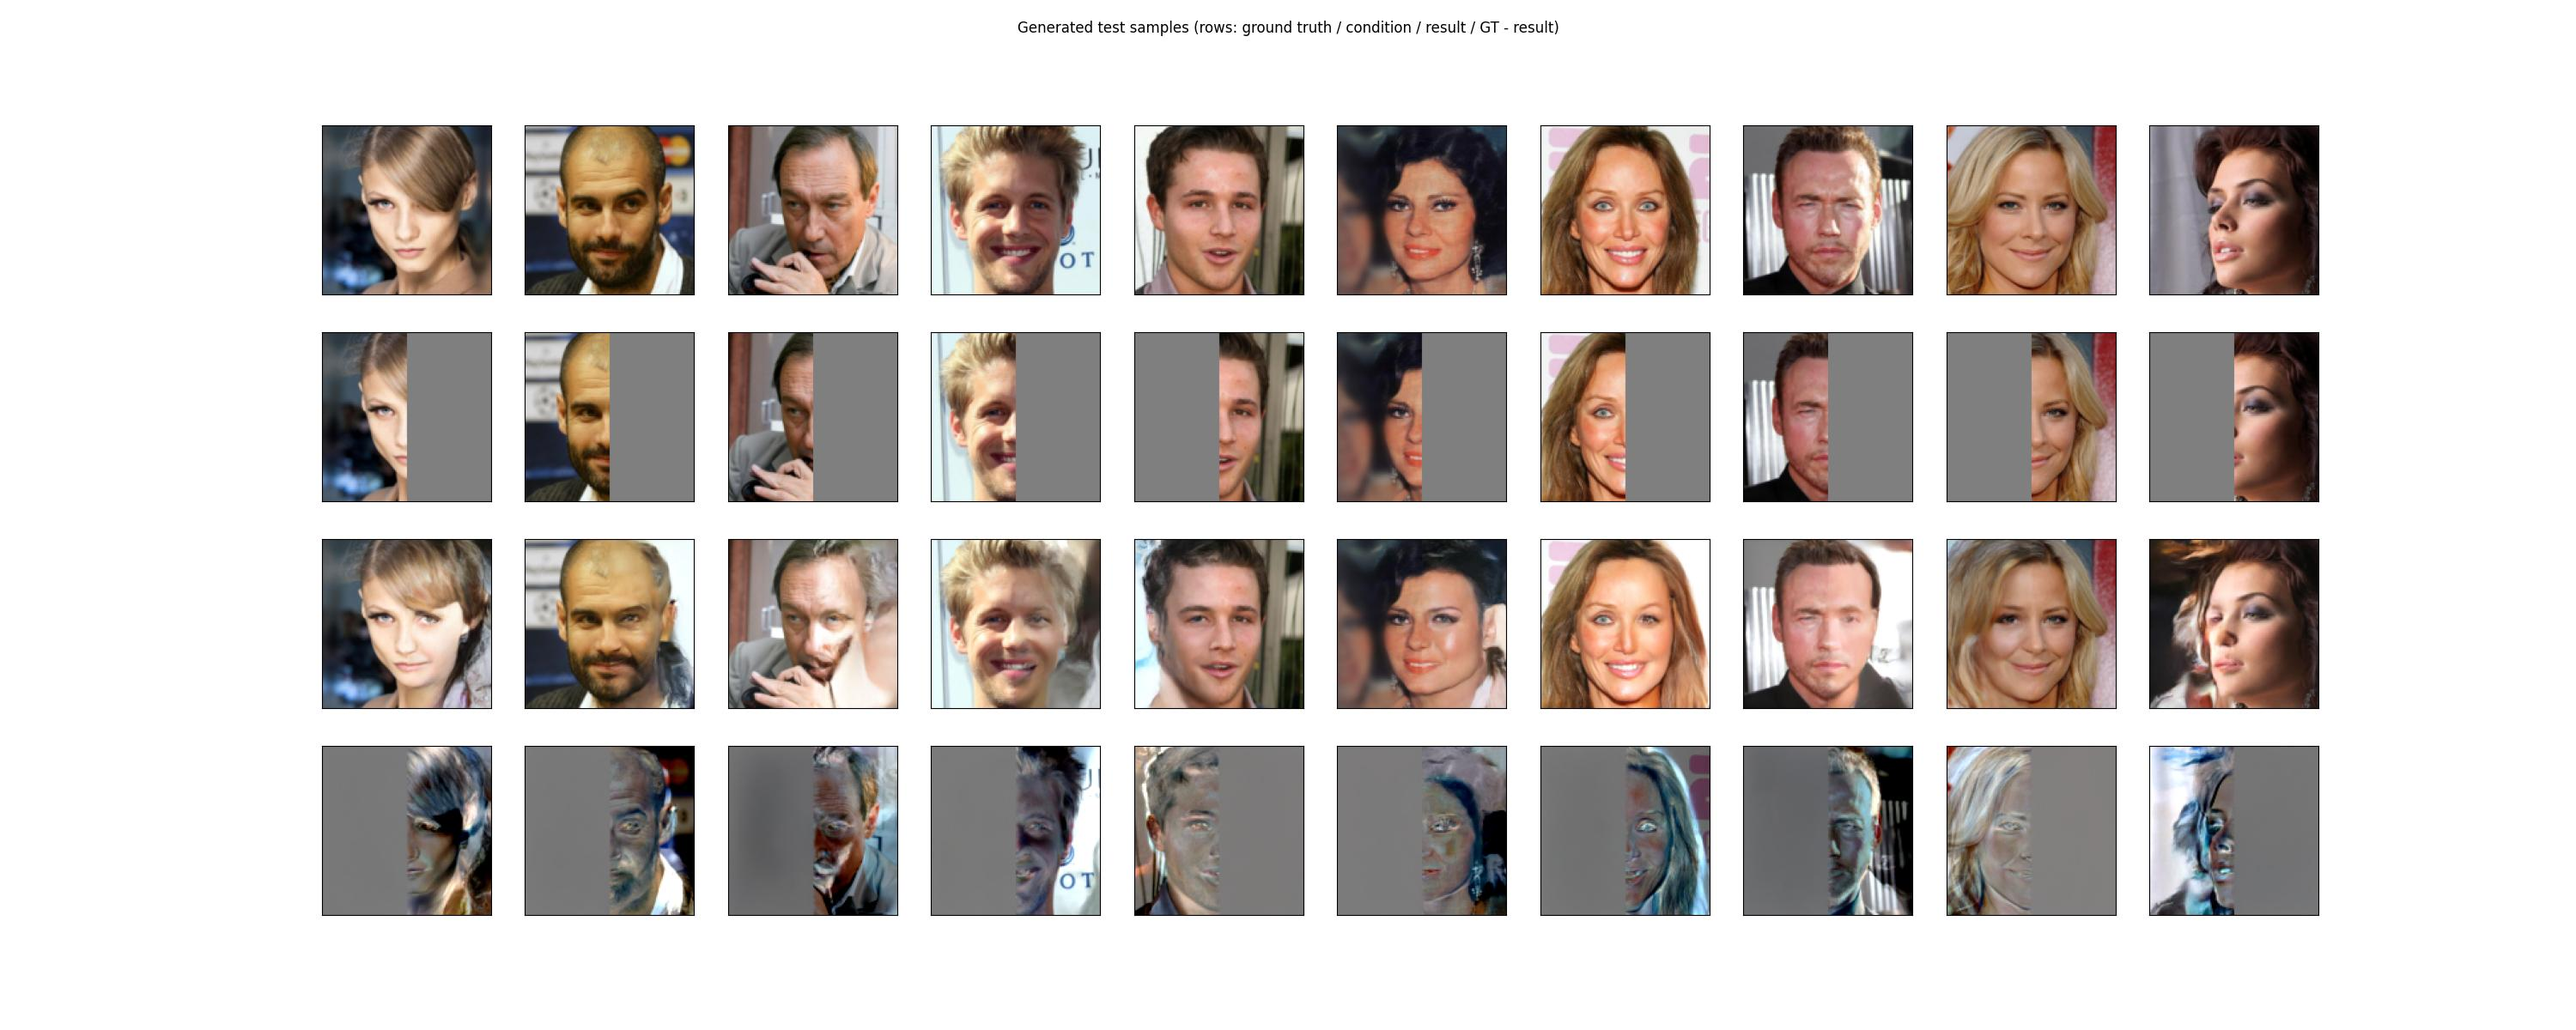
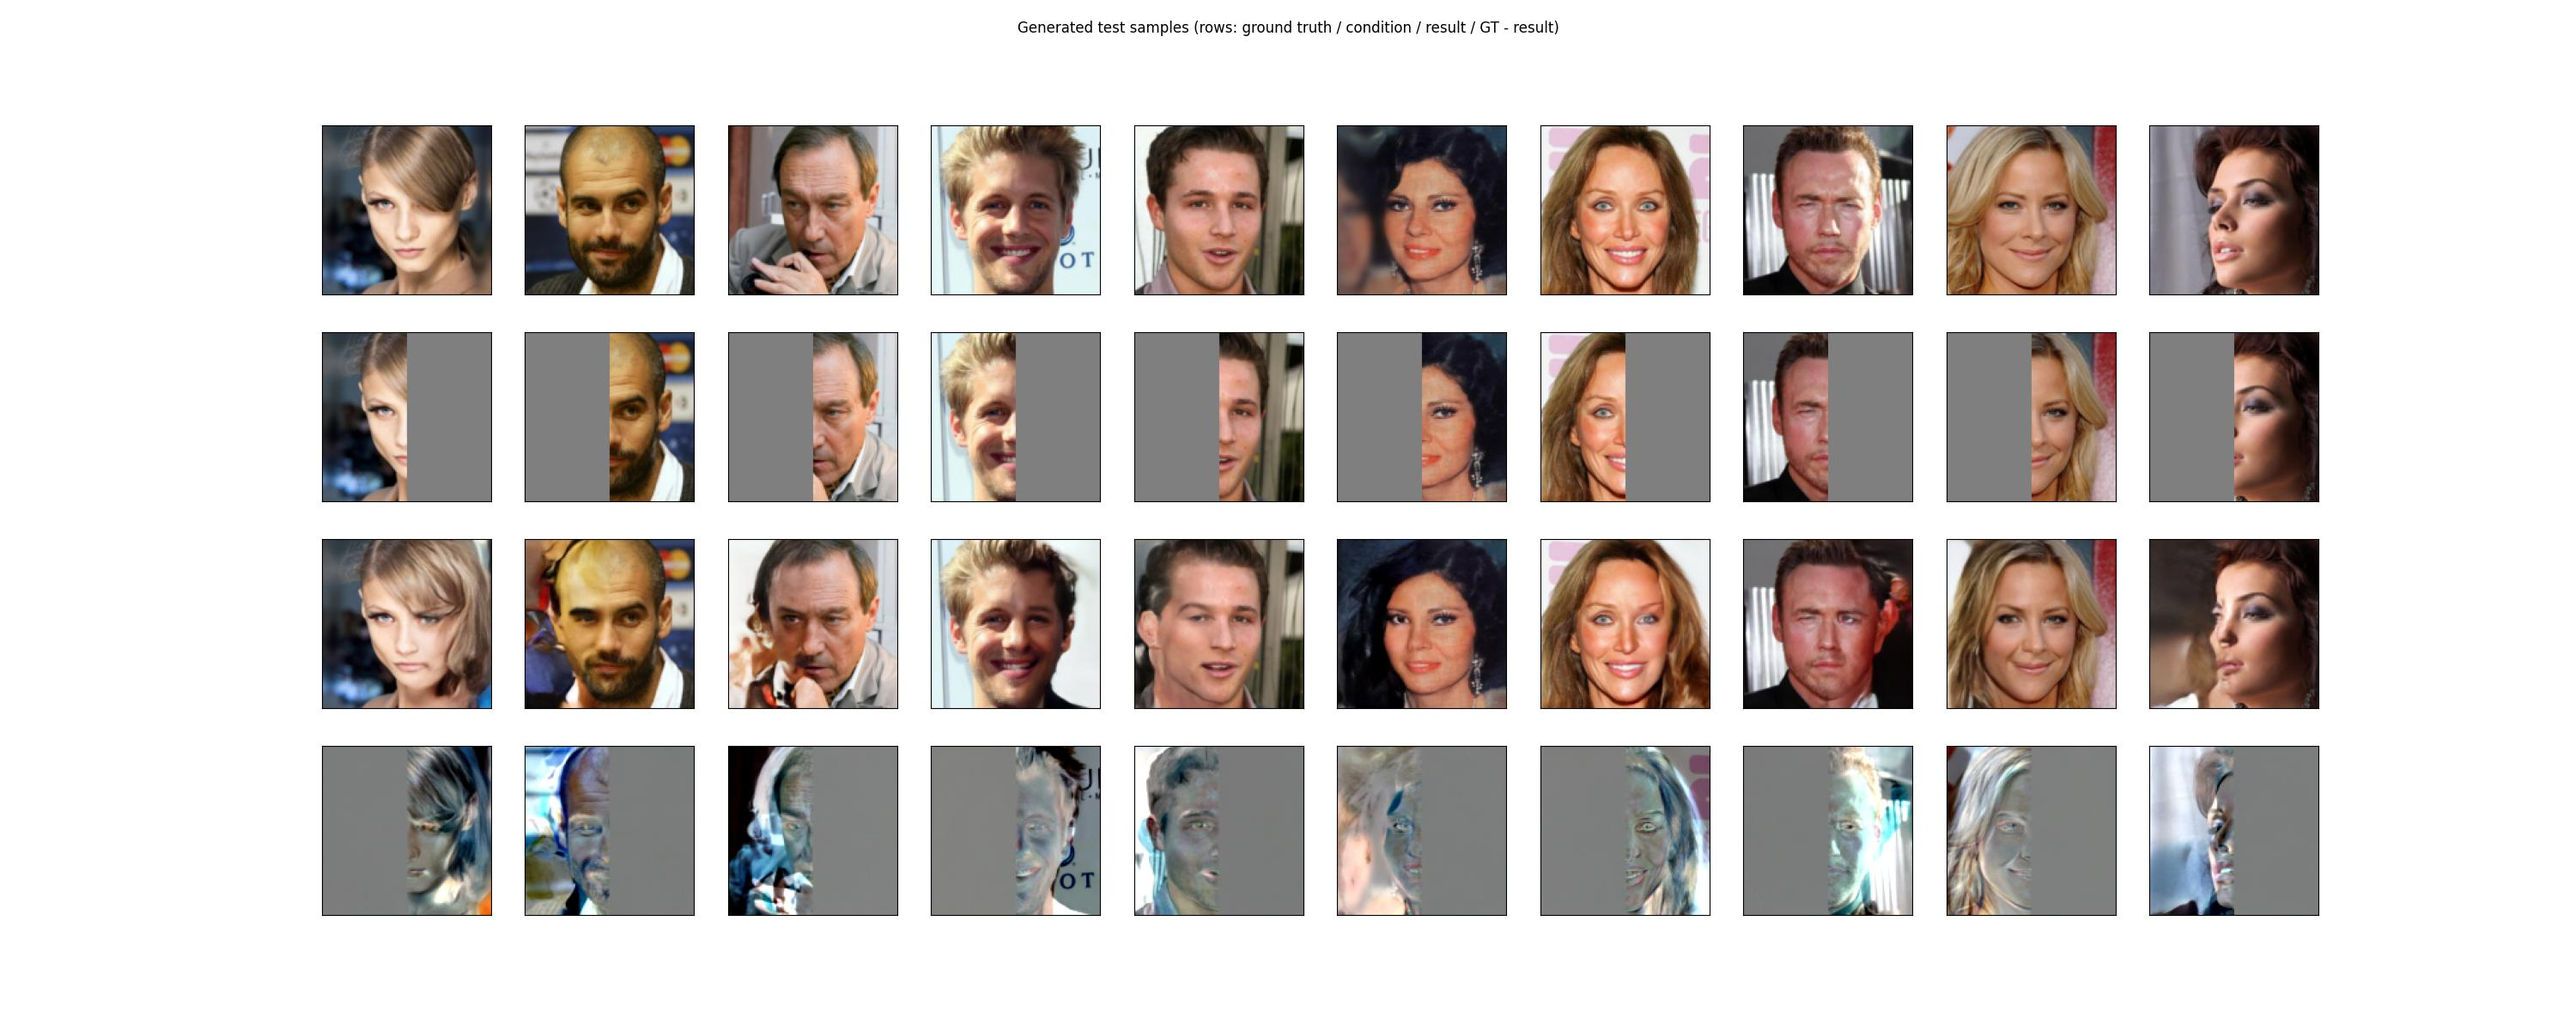
update diff cond (wip)

diff --git a/README.md b/README.md
@@ -268,37 +268,51 @@ download-once approach used for Celeb is planned.
 
 ### CELEB DIFF COND
 
-#### dc_m_celeb_x128_deblur.yaml (MONAI UNet)
+#### MONAI UNet
+
+##### dc_m_celeb_x128_deblur.yaml
 - Keywords: conditional DDPM, deblurring, blurred image as condition, MONAI UNet
 - GPU: A100
-- Train: 126 EP, 16h9m, 7m41s/EP (stopped early: ValLoss_stagnated)
+- Train: 151 EP, 20h1m, 7m57s/EP (stopped early: ValLoss_stagnated)
 
 ![dc_m_celeb_x128_deblur generated test samples](assets/dc_m_celeb_x128_deblur.jpg)
 - Quality: excellent, deblurred result nearly indistinguishable from ground truth
 
-#### dc_cc_celeb_x128_deblur.yaml (chuchichaestli UNet)
+##### dc_m_celeb_x128_hard.yaml (harder condition: blur + cutout + salt-pepper + Gaussian noise)
+- Keywords: conditional DDPM, MONAI UNet, condition stacks blur with random cutout patches, salt-and-pepper noise, and Gaussian noise (resampled every epoch), inpainting/denoising rather than plain deblurring
+- GPU: A100
+- Status: still training - `job_time` (23.3h) is shorter than this run needs, so it checkpoints and auto-resubmits itself rather than finishing in one job. 2 segments completed so far (~46h combined), last checkpoint at epoch 204/350, a 3rd segment is queued (pending on cluster priority as of this check). No test results yet.
+
+##### dc_m_celeb_x128_halfface.yaml (condition is half the face blacked out)
+- Keywords: conditional DDPM, MONAI UNet, outpainting, condition is the GT with a random half (left/right, resampled every epoch via RandomEdgeMask) blacked out, model reconstructs the missing half
+- GPU: A100
+- Status: still training - same checkpoint/auto-resubmit pattern as the `hard` run above. 1st segment reached epoch 104/350 (~23h) before hitting the job time limit; the 2nd segment is running now. No test results yet.
+
+#### Chuchichaestli UNet
+
+##### dc_cc_celeb_x128_deblur.yaml
 - Keywords: same conditional deblurring task, chuchichaestli UNet backbone
 - GPU: 2x A100
-- Train: 154 EP, 2h49m, 1m6s/EP (stopped early: ValLoss_stagnated)
+- Train: 219 EP, 3h29m, 57s/EP (stopped early: ValLoss_stagnated)
 
 ![dc_cc_celeb_x128_deblur generated test samples](assets/dc_cc_celeb_x128_deblur.jpg)
 - Quality: excellent, on par with the MONAI version
 
-#### dc_cc_celeb_x128_hard.yaml (harder condition: blur + cutout + salt-pepper + Gaussian noise)
+##### dc_cc_celeb_x128_hard.yaml (harder condition: blur + cutout + salt-pepper + Gaussian noise)
 - Keywords: conditional DDPM, chuchichaestli UNet, condition stacks blur with random cutout patches, salt-and-pepper noise, and Gaussian noise (resampled every epoch), inpainting/denoising rather than plain deblurring
 - GPU: 2x A100
-- Train: 102 EP, 2h12m, 1m9s/EP (stopped early: ValLoss_stagnated)
+- Train: 213 EP, 6h20m, 1m47s/EP (stopped early: ValLoss_stagnated)
 
 ![dc_cc_celeb_x128_hard generated test samples](assets/dc_cc_celeb_x128_hard.jpg)
-- Quality: good - 9/10 results closely match GT despite the heavy corruption, 1/10 has a residual dark artifact around the eyes
+- Quality: good - all 10 results plausibly reconstruct the GT despite the heavy corruption, no clear residual artifacts this time (an improvement on the previous run's 1/10 dark-eye artifact)
 
-#### dc_cc_celeb_x128_halfface.yaml (condition is half the face blacked out)
+##### dc_cc_celeb_x128_halfface.yaml (condition is half the face blacked out)
 - Keywords: conditional DDPM, chuchichaestli UNet, outpainting, condition is the GT with a random half (left/right, resampled every epoch via RandomEdgeMask) blacked out, model reconstructs the missing half
 - GPU: 2x A100
-- Train: 159 EP, 2h44m, 56s/EP (stopped early: ValLoss_stagnated)
+- Train: 170 EP, 4h28m, 1m35s/EP (stopped early: ValLoss_stagnated)
 
 ![dc_cc_celeb_x128_halfface generated test samples](assets/dc_cc_celeb_x128_halfface.jpg)
-- Quality: good - 9/10 outpainted halves are plausible and coherent with the visible half, 1/10 (a hard side-profile sample that also struggled in dc_cc_celeb_x128_hard) is smeared/artifacted
+- Quality: good - most outpainted halves (9/10) are plausible and coherent with the visible half, 1/10 (the striped-shirt sample) shows the shirt's pattern bleeding into the outpainted face region
 
 ---
 
